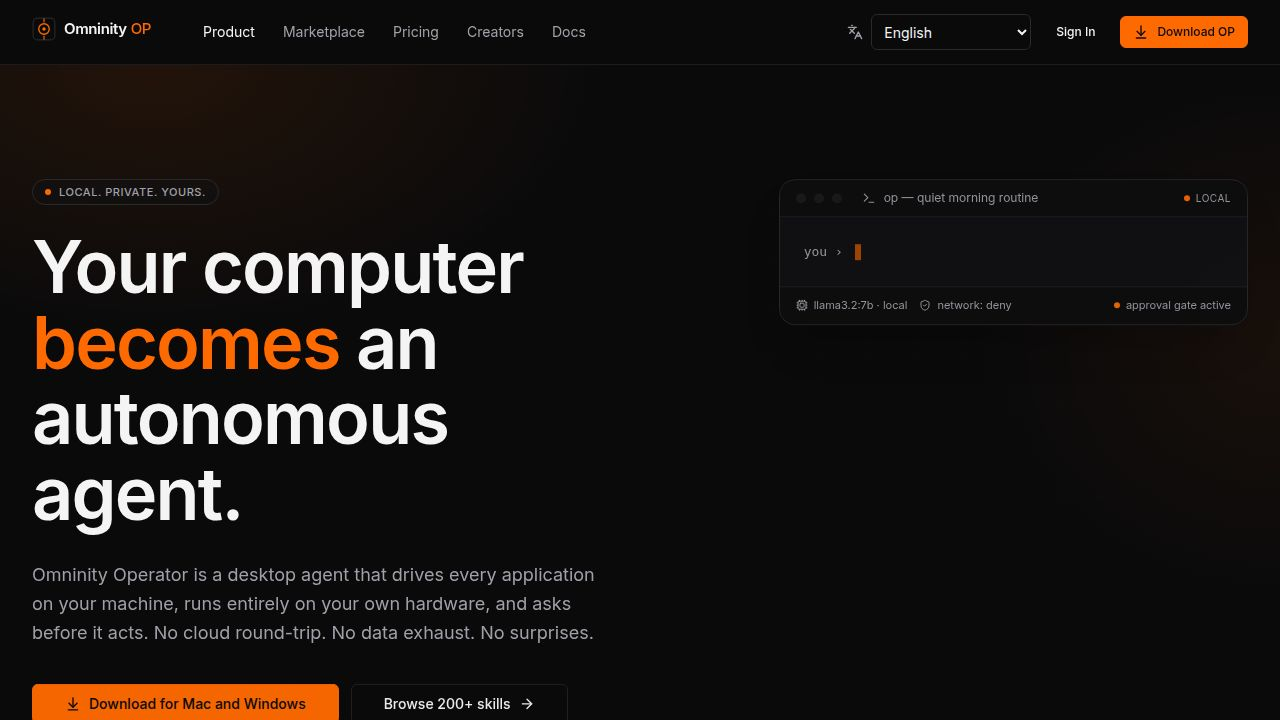
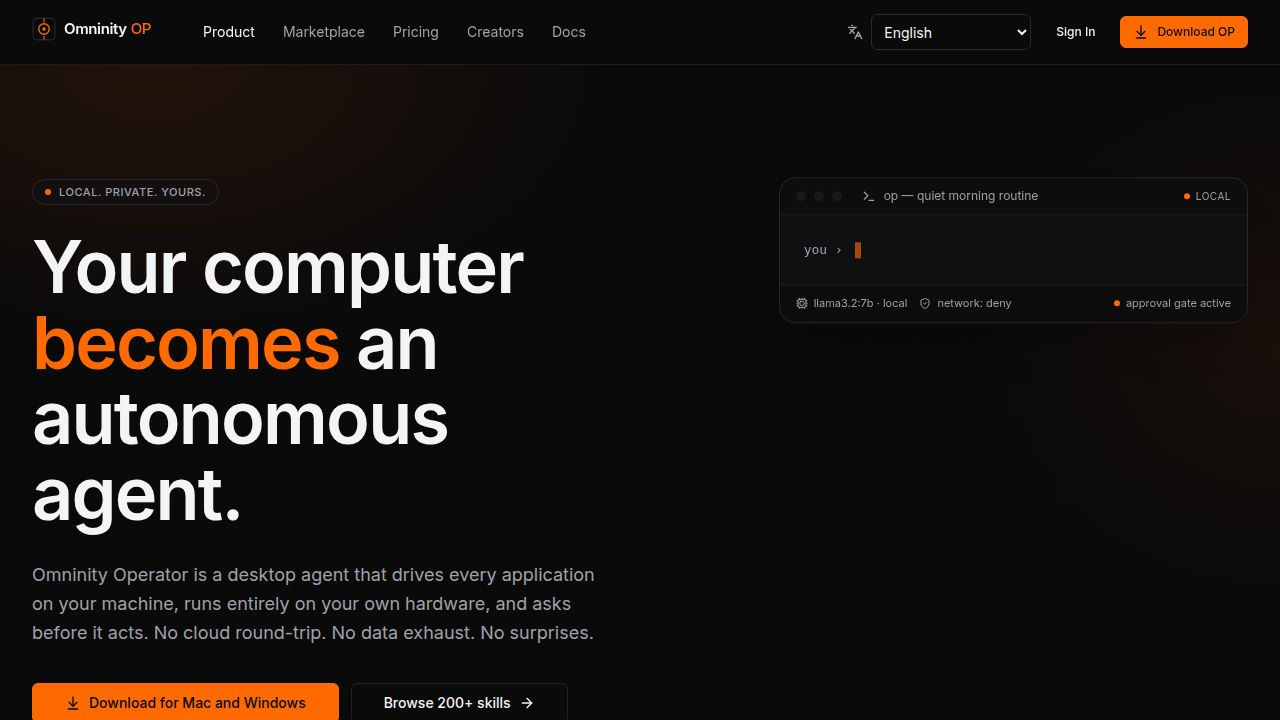
Fix sidebar refresh + add PDF upload to chat
Sidebar bug fix:
- `createConversation.onSuccess` now uses `qc.refetchQueries({ exact: false })`
  instead of `invalidateQueries` — sidebar instantly shows the new conversation
  the moment the first message is sent rather than waiting for next window focus.
- `newConversation()` also clears `attachedPdf` / `pdfError` state on reset.

PDF attachment feature:
- Installed `multer` (multipart) + `pdf-parse@1` (Node.js-compatible) in api-server.
  (pdf-parse@2 was tried but uses browser DOM APIs; reverted to v1 function API.)
- New route: `POST /api/conversations/:id/attachments` — accepts multipart PDF up
  to 20 MB, extracts text with `pdf-parse`, appends as a `system` role message so
  the full document lives in conversation history and is included in every subsequent
  model context automatically.
- Frontend `chat.tsx`:
  - `Paperclip` + `X` added to lucide imports.
  - State: `attachedPdf`, `pdfUploading`, `pdfError`, `pdfInputRef`.
  - `handlePdfSelect` callback: calls `ensureConversation` (creates thread if needed),
    POSTs file via `FormData` with tenant headers, sets chip on success.
  - Chip renders above textarea showing filename with an × dismiss button.
  - Spinner on the paperclip button while uploading; error shown inline.
  - route-sizes check: still 98 files, all within limits.

diff --git a/artifacts/omninity-website/src/pages/operator/chat.tsx b/artifacts/omninity-website/src/pages/operator/chat.tsx
@@ -28,7 +28,7 @@ import {
   type ContextUsage,
 } from "@workspace/api-client-react";
 import { useQueryClient } from "@tanstack/react-query";
-import { Send, Square, RefreshCw, Sparkles, Bookmark, Pin, PinOff } from "lucide-react";
+import { Send, Square, RefreshCw, Sparkles, Bookmark, Pin, PinOff, Paperclip, X } from "lucide-react";
 import { OperatorLayout } from "@/components/operator/layout";
 import { Button } from "@/components/ui/button";
 import { Textarea } from "@/components/ui/textarea";
@@ -118,6 +118,10 @@ export default function ChatPage() {
   const [isStreaming, setIsStreaming] = useState(false);
   const [streamError, setStreamError] = useState<string | null>(null);
   const streamAbortRef = useRef<AbortController | null>(null);
+  const [attachedPdf, setAttachedPdf] = useState<{ name: string } | null>(null);
+  const [pdfUploading, setPdfUploading] = useState(false);
+  const [pdfError, setPdfError] = useState<string | null>(null);
+  const pdfInputRef = useRef<HTMLInputElement | null>(null);
 
   const profileQuery = useGetOnboardingProfile();
   const profile = profileQuery.data?.data.profile ?? null;
@@ -222,7 +226,7 @@ export default function ChatPage() {
     mutation: {
       onSuccess: (resp) => {
         setActiveConversation(resp.data);
-        void qc.invalidateQueries({ queryKey: ["/conversations"] });
+        void qc.refetchQueries({ queryKey: ["/conversations"], exact: false });
       },
     },
   });
@@ -257,6 +261,50 @@ export default function ChatPage() {
     });
     return result.data;
   };
+
+  const handlePdfSelect = useCallback(
+    async (e: React.ChangeEvent<HTMLInputElement>) => {
+      const file = e.target.files?.[0];
+      if (!e.target) return;
+      (e.target as HTMLInputElement).value = "";
+      if (!file) return;
+      setPdfError(null);
+      setPdfUploading(true);
+      try {
+        const conversation = await ensureConversation(
+          file.name.replace(/\.pdf$/i, "").slice(0, 80),
+        );
+        const form = new FormData();
+        form.append("file", file);
+        const base = getApiBase();
+        const resp = await fetch(
+          `${base}/api/conversations/${conversation.id}/attachments`,
+          {
+            method: "POST",
+            headers: {
+              "X-Tenant-ID": getTenantId(),
+              "X-Workspace-ID": getWorkspaceId(),
+            },
+            body: form,
+          },
+        );
+        if (!resp.ok) {
+          const body = (await resp.json().catch(() => ({}))) as { error?: { message?: string } };
+          throw new Error(body?.error?.message ?? "Upload failed");
+        }
+        setAttachedPdf({ name: file.name });
+        void qc.refetchQueries({
+          queryKey: [`/conversations/${conversation.id}/messages`],
+          exact: false,
+        });
+      } catch (err_) {
+        setPdfError(err_ instanceof Error ? err_.message : "Upload failed");
+      } finally {
+        setPdfUploading(false);
+      }
+    },
+    [ensureConversation, qc],
+  );
 
   const chatMutation = useChat({ mutation: {} });
 
@@ -630,6 +678,8 @@ export default function ChatPage() {
     setActiveRunId(null);
     setActiveRunSkillId(null);
     setActiveApproval(null);
+    setAttachedPdf(null);
+    setPdfError(null);
   };
 
   const headerActions = (
@@ -878,6 +928,32 @@ export default function ChatPage() {
                   if (tpl.skillConfig?.agentMode) setAgentMode(true);
                 }}
               />
+              {attachedPdf ? (
+                <div className="mb-2 flex items-center gap-2 rounded-md border border-border bg-muted/40 px-3 py-1.5 text-sm">
+                  <Paperclip className="h-3.5 w-3.5 shrink-0 text-muted-foreground" />
+                  <span className="flex-1 truncate text-muted-foreground">
+                    {attachedPdf.name}
+                  </span>
+                  <button
+                    type="button"
+                    onClick={() => { setAttachedPdf(null); setPdfError(null); }}
+                    className="ml-1 rounded p-0.5 hover:bg-muted"
+                    aria-label="Remove attachment"
+                  >
+                    <X className="h-3.5 w-3.5 text-muted-foreground" />
+                  </button>
+                </div>
+              ) : null}
+              {pdfError ? (
+                <p className="mb-1 text-xs text-destructive">{pdfError}</p>
+              ) : null}
+              <input
+                ref={pdfInputRef}
+                type="file"
+                accept="application/pdf"
+                className="hidden"
+                onChange={(e) => void handlePdfSelect(e)}
+              />
               <div className="flex items-end gap-2">
                 <Textarea
                   data-testid="input-chat"
@@ -895,6 +971,21 @@ export default function ChatPage() {
                   disabled={isStreaming || createRun.isPending}
                 />
                 <div className="flex flex-col gap-2">
+                  <Button
+                    variant="outline"
+                    size="icon"
+                    onClick={() => pdfInputRef.current?.click()}
+                    disabled={pdfUploading || isStreaming}
+                    aria-label="Attach PDF"
+                    title="Attach PDF"
+                    data-testid="button-attach-pdf"
+                  >
+                    {pdfUploading ? (
+                      <RefreshCw className="h-4 w-4 animate-spin" />
+                    ) : (
+                      <Paperclip className="h-4 w-4" />
+                    )}
+                  </Button>
                   <Button
                     variant="outline"
                     size="icon"

diff --git a/artifacts/api-server/src/routes/conversations/index.ts b/artifacts/api-server/src/routes/conversations/index.ts
@@ -17,6 +17,8 @@
  */
 import { Router, type IRouter } from "express";
 import { z } from "zod";
+import multer from "multer";
+import pdfParse from "pdf-parse";
 
 import { err, ok, pageOk } from "../../lib/api-envelope";
 import { requireTenantContext } from "../../lib/tenant-context";
@@ -32,6 +34,15 @@ import {
   searchConversations,
   updateConversation,
 } from "../../services/conversation.service";
+
+const upload = multer({
+  storage: multer.memoryStorage(),
+  limits: { fileSize: 20 * 1024 * 1024 },
+  fileFilter: (_req, file, cb) => {
+    if (file.mimetype === "application/pdf") cb(null, true);
+    else cb(new Error("Only PDF files are accepted"));
+  },
+});
 import {
   getConversationContextUsage,
   resetConversationContext,
@@ -39,6 +50,55 @@ import {
 } from "../../services/context.service";
 
 const router: IRouter = Router();
+
+// PDF attachment upload — multer processes the multipart body, pdf-parse
+// extracts the text, and we persist it as a system message so the model
+// has the full document in context across reloads.
+router.post(
+  "/:id/attachments",
+  requireTenant(),
+  upload.single("file"),
+  async (req, res, next) => {
+    try {
+      const ctx = requireTenantContext();
+      const conv = await getConversation(ctx, String(req.params.id));
+      if (!conv) {
+        res.status(404).json(err("NOT_FOUND", "Conversation not found"));
+        return;
+      }
+      if (!req.file) {
+        res.status(400).json(err("VALIDATION", "No file uploaded"));
+        return;
+      }
+      let text: string;
+      try {
+        const result = await pdfParse(req.file.buffer);
+        text = result.text.trim();
+      } catch {
+        res.status(422).json(err("PDF_PARSE_FAILED", "Could not extract text from PDF"));
+        return;
+      }
+      if (!text) {
+        res.status(422).json(err("PDF_EMPTY", "PDF contained no extractable text"));
+        return;
+      }
+      const filename = req.file.originalname;
+      await appendMessage(ctx, String(req.params.id), {
+        role: "system",
+        content: `[DOCUMENT: ${filename}]\n\n${text}`,
+      });
+      res.json(
+        ok({
+          filename,
+          characterCount: text.length,
+          wordCount: text.split(/\s+/).filter(Boolean).length,
+        }),
+      );
+    } catch (e) {
+      next(e);
+    }
+  },
+);
 
 const PageSchema = z.object({
   cursor: z.string().min(1).max(2048).optional(),

diff --git a/replit.md b/replit.md
@@ -58,6 +58,8 @@ The QA stack is split into independent, composable scripts so any single check c
 - **Voice Interface (Task #9)**: `/api/voice/{transcribe,synthesize,voices}` provides a Tier 1 stub Whisper-style STT (deterministic transcript) and a real WAV PCM16 TTS engine. Frontend `lib/voice-engine.ts` exposes `useVoiceRecorder` (MediaRecorder + AnalyserNode meter + Web Speech live captions), `useVoicePlayer` (HTMLAudioElement + interrupt), and `useWakeWord` (continuous SpeechRecognition). Chat page exposes mic button, waveform, voice-mode toggle and wake-word triggered capture; Settings exposes voice + speed + autoplay + wake-word controls and a preview button. All endpoints return the canonical envelope and are privacy-logged.
 - **Universal App Understanding & Capability Indexer (Task #70)**: Per-(tenant, app) capability profiles fused from four sources — OS-native introspection (seeded scan), public docs, MCP connector tool lists, and community App Skills (`skills.target_app_id`). Schema: `app_profiles`, `app_capability_commands` (kind: command|menu|shortcut|mcp_tool|skill_action), `app_mcp_connections`, `app_doc_ingestions` (migration 0050; all tables tenant/workspace-scoped with covering indexes). Service `services/app-capability.service.ts` is feature-flagged (`FEATURE_APP_CAPABILITIES`, default on in dev), uses an LRU cache (256 entries, 60s TTL) and `tenantScope` everywhere. Routes under `/api/apps`: `GET /feature`, `GET /` (paginated `{items, nextCursor}`), `POST /scan` (idempotent — re-running never duplicates a profile), `GET /:id`, `GET /:id/commands` (filterable by kind), `POST /:id/deep-learn`, `POST /:id/mcp/connect|disconnect` (mirrors connector tools as `mcp_tool` commands), `POST /:id/install-skill` (stamps `target_app_id` on the skill row, adds a `skill_action` command). `summariseCapabilitiesForAgent()` exposes a planner-ready snapshot used by the agent layer. Bench `app-capability.bench.ts`: planner summary 0.27ms / list 0.26ms (budgets 50ms / 25ms). Drift: frontend Apps panel deferred — no clean mount point in `omninity-website` yet.
 - **Context Window Management (Task #51)**: `services/context.service.ts` sizes each model's context window (regex map: llama3.1=128k, claude=200k, gpt-4o=128k, default=4k), estimates tokens (char/4), enforces pinned-message survival and a `context_reset_ts` cutoff, and triggers rolling summarisation at 75% usage with a deterministic fallback when the runtime is unavailable. New endpoints: `GET /api/conversations/:id/context`, `POST /api/conversations/:id/context/reset`, `POST|DELETE /api/conversations/:id/messages/:msgId/pin`, `POST /api/context/chunk`. `POST /api/chat` accepts `conversationId` and returns 413 with `code: CONTEXT_OVERFLOW` plus a usage payload when the prompt would overflow. Chat UI shows a `<ContextUsageBar/>` (token bar with green/amber/red ramp, pinned-count badge, summary badge, Reset-context button) and per-row pin/unpin buttons; rolled summaries render as a dashed amber banner.
+- **PDF Attachment Upload**: `POST /api/conversations/:id/attachments` — multer multipart route, `pdf-parse@1` extracts text server-side, persists as a `system` role message so the full document is in the model's context window across page reloads. 20 MB file-size cap, PDF-only filter. Frontend: paperclip button in chat input, hidden `<input type="file" accept="application/pdf">`, upload chip showing filename with ×-dismiss, animated spinner while uploading, error display. Clearing conversation or clicking × removes the chip.
+- **Sidebar Instant Refresh**: `createConversation.onSuccess` now calls `qc.refetchQueries({ exact: false })` instead of `invalidateQueries` so the new conversation appears in the sidebar immediately after the first message is sent, not on next window focus.
 
 # External Dependencies
 